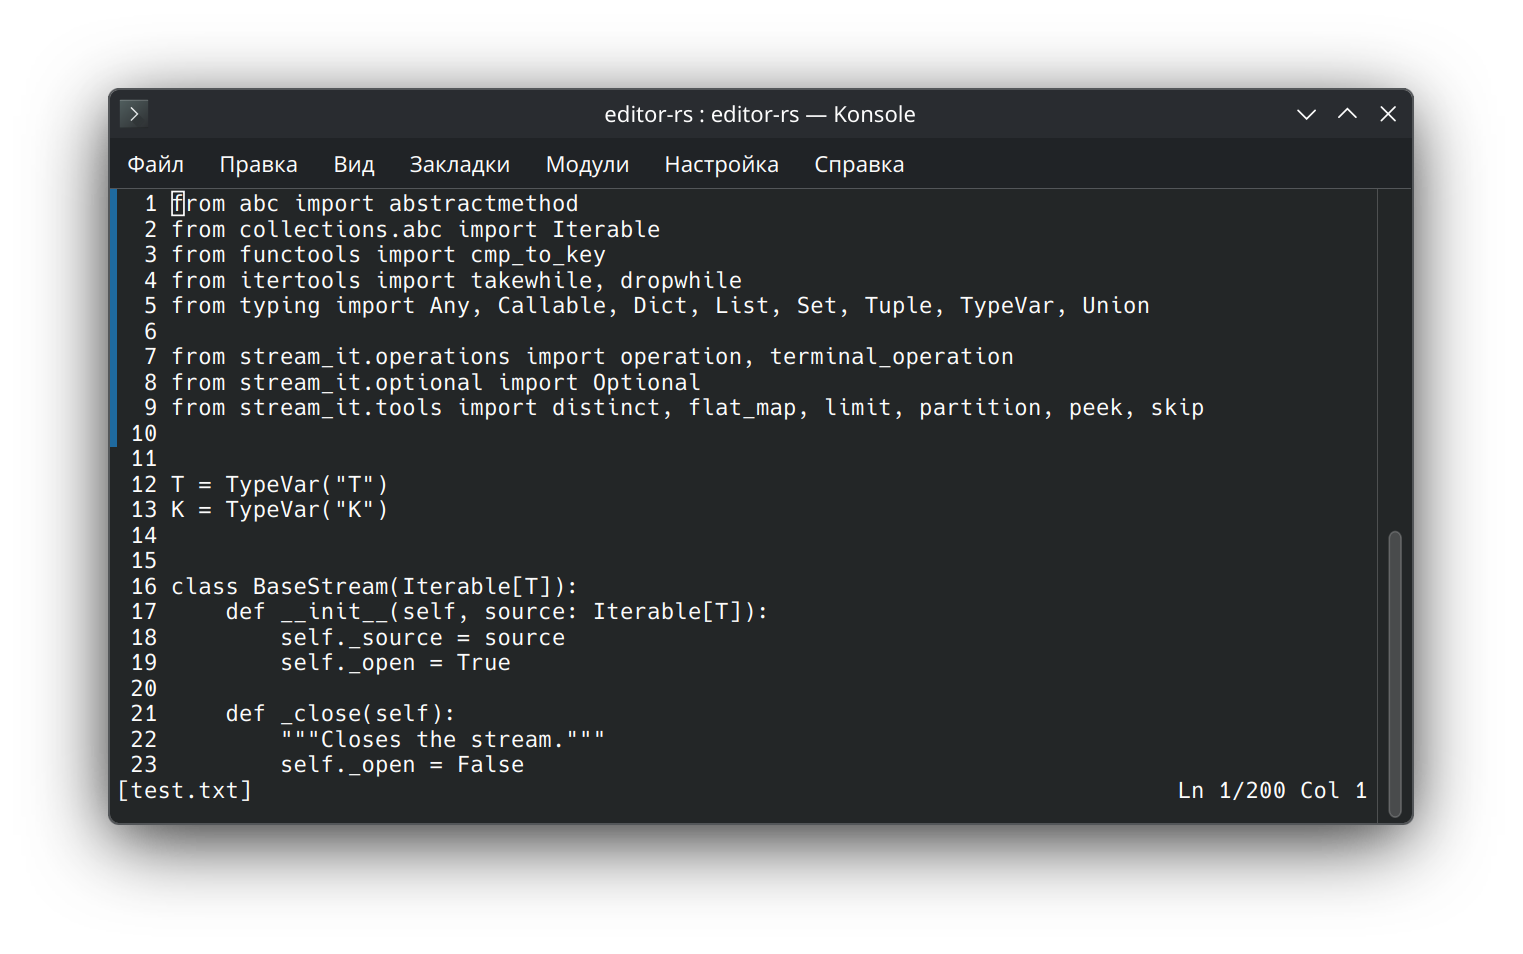
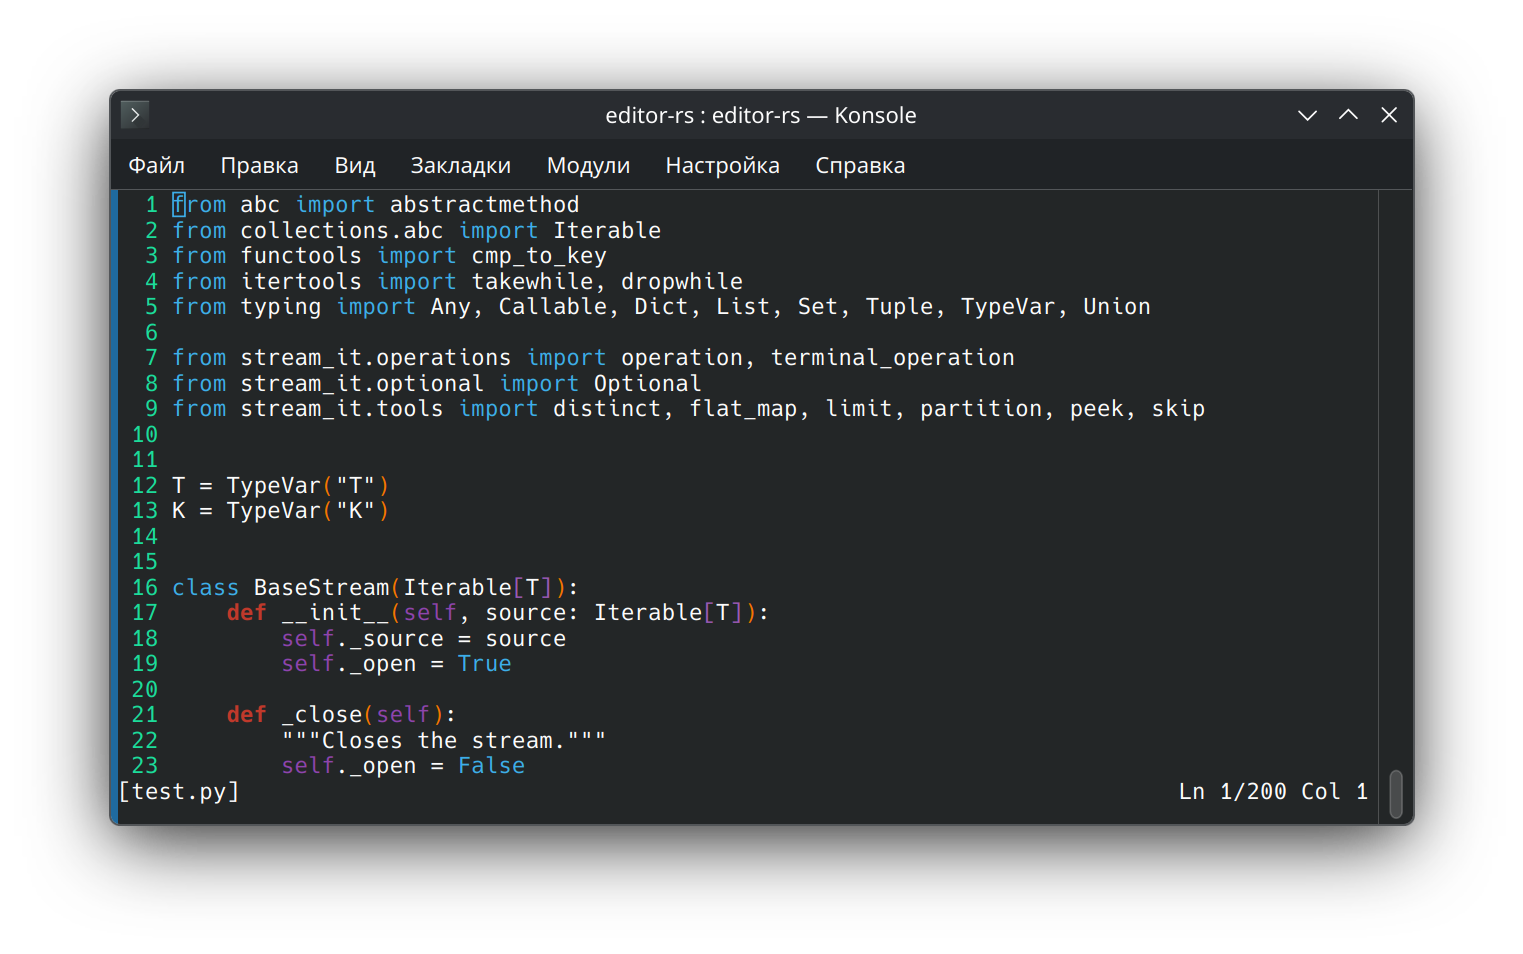
add: update README with syntax highlighting features and supported languages

diff --git a/README.md b/README.md
@@ -25,6 +25,18 @@
 - Автоматические отступы (auto-indent)
 - Status bar в нижней части редактора
 - Работа в raw-режиме терминала через `crossterm`
+- Подсветка синтаксиса (цвет + атрибуты) на основе JSON-правил
+
+### Поддерживаемые языки (на данный момент)
+
+| Язык    | Расширение | Файл правил            |
+|---------|------------|------------------------|
+| Rust    | `.rs`      | `syntaxes/rust.json`   |
+| Python  | `.py`      | `syntaxes/python.json` |
+| TOML    | `.toml`    | `syntaxes/toml.json`   |
+
+Правила подсветки полностью вынесены в JSON-файлы.  
+Чтобы добавить новый язык или изменить цвета/ключевые слова — достаточно отредактировать соответствующий `.json` (перекомпиляция не нужна).
 
 ## Запуск
 
@@ -58,9 +70,17 @@ src/
 ├── main.rs       — точка входа
 ├── editor.rs     — логика редактора и обработка событий
 ├── buffer.rs     — хранение текста и операции над ним
-├── cursor.rs     — позиция курсора
-└── terminal.rs   — обёртка над crossterm
+├── cursor.rs     — позиция курсора и viewport
+├── terminal.rs   — обёртка над crossterm
+└── syntax.rs     — загрузка правил и подсветка синтаксиса
+
+syntaxes/
+├── rust.json
+├── python.json
+└── toml.json
 ```
 
 ## Зависимости
 - `crossterm` — работа с терминалом
+- `serde` + `serde_json` — загрузка правил подсветки синтаксиса из JSON
+- `unicode-segmentation` — корректное разбиение строк на слова